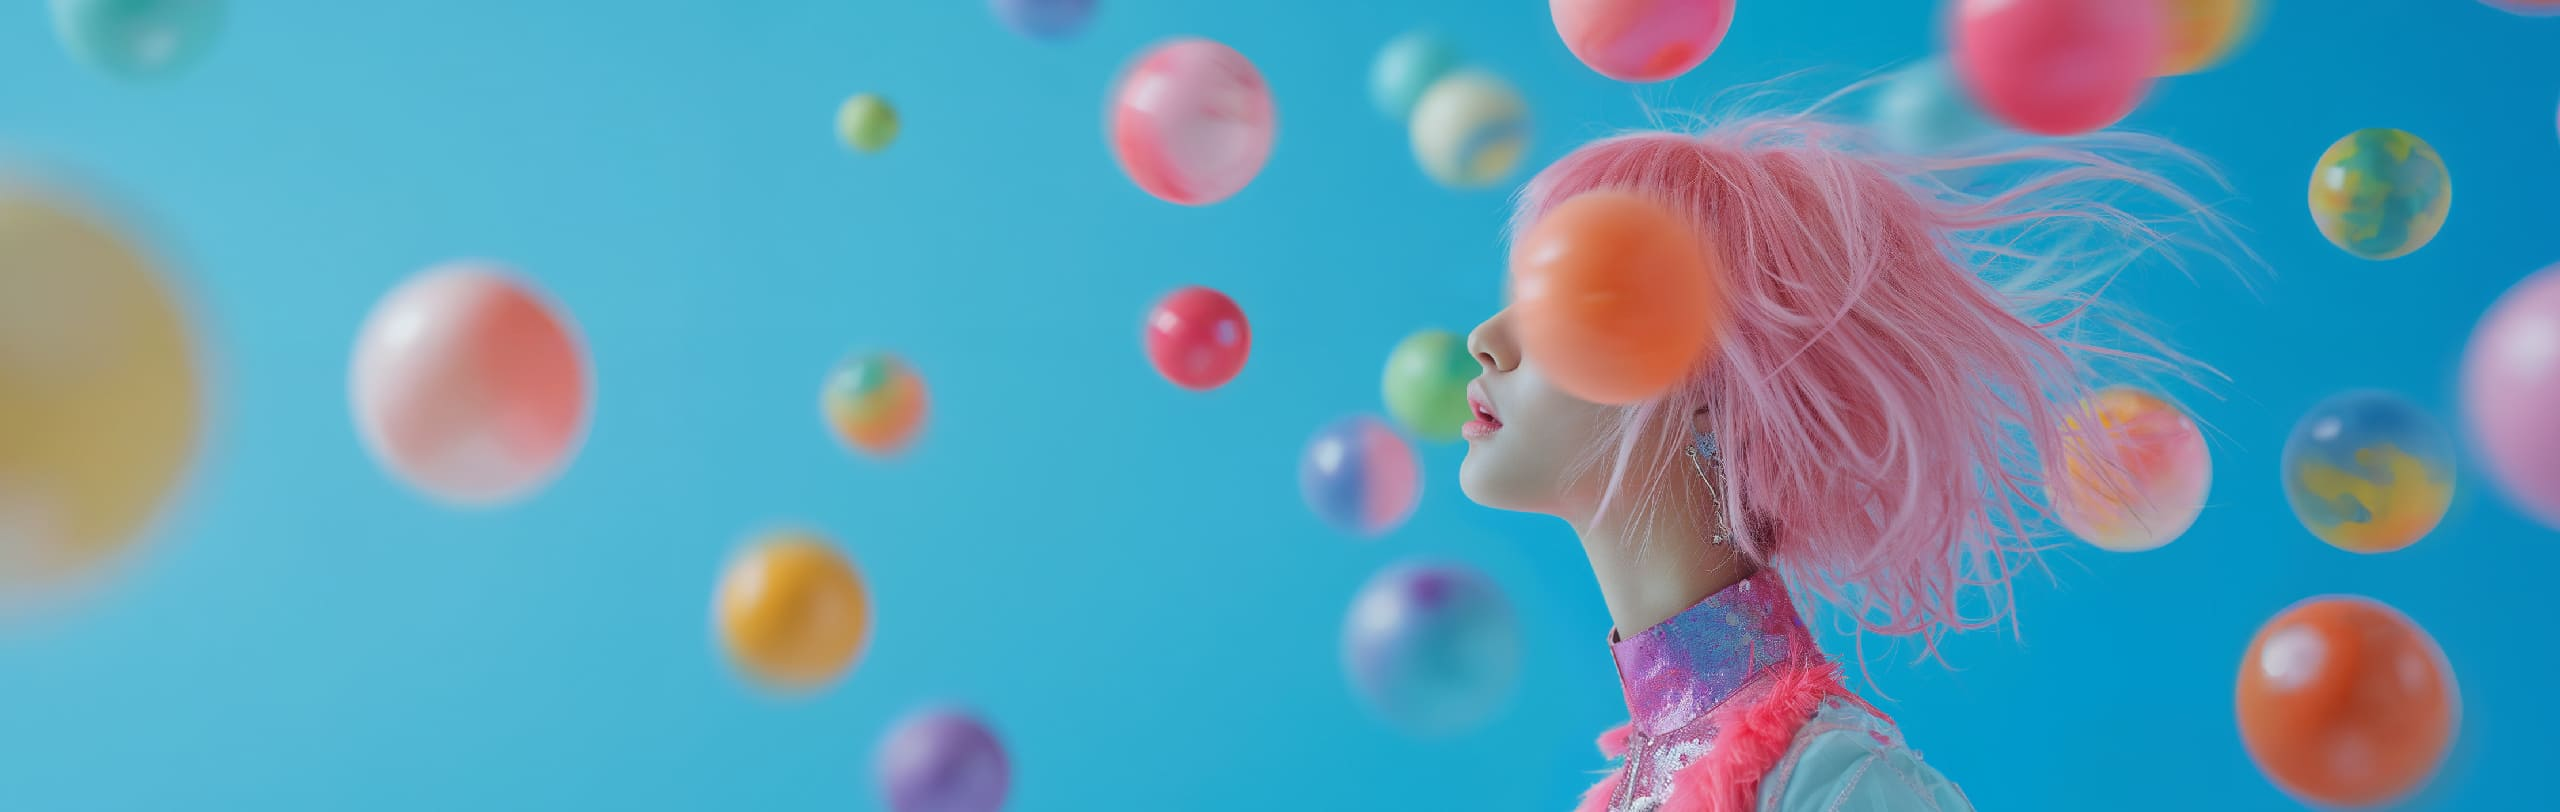
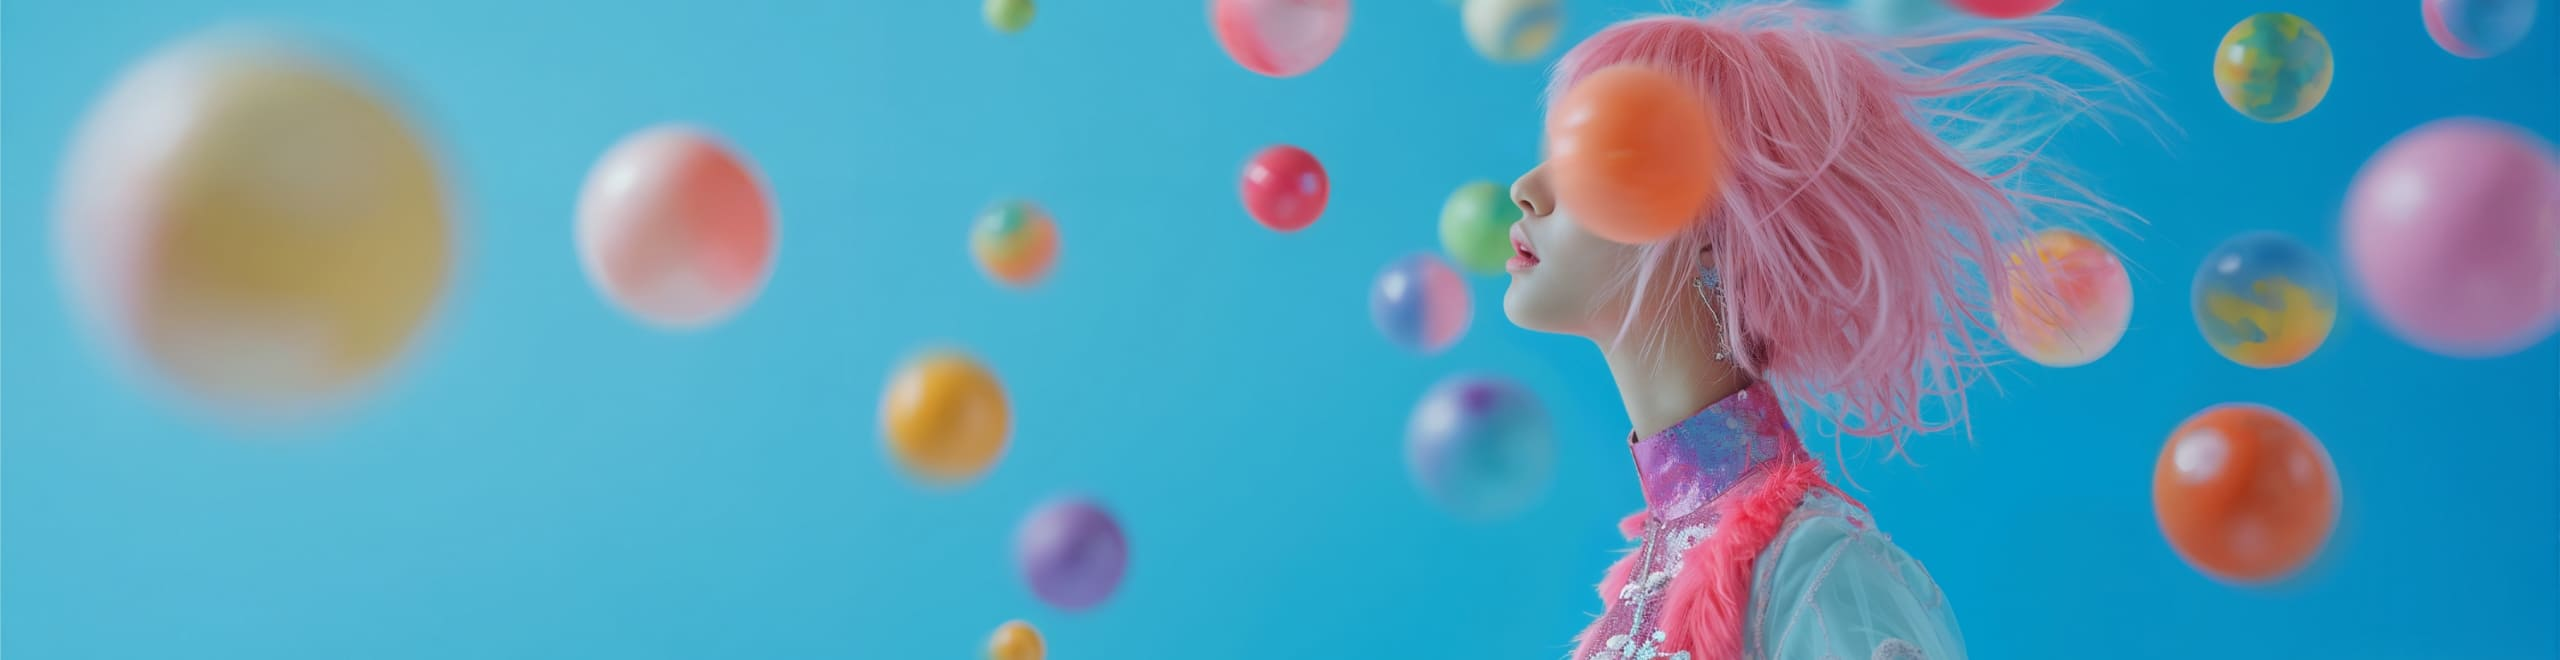
社外FB最終

diff --git a/scss/base/_base.scss b/scss/base/_base.scss
@@ -13,7 +13,7 @@ body {
 	font-weight: $base-font-weight;
 	position: relative;
 	-webkit-print-color-adjust: exact;
-	// overflow-x: hidden;
+	overflow-x: hidden;
 	// -ms-overflow-style: none;    /* IE, Edge 対応 */
 	// scrollbar-width: none;       /* Firefox 対応 */
   @include mq_sp {
@@ -21,8 +21,19 @@ body {
     line-height: $base-line-height-sp;
   }
 	&::-webkit-scrollbar {  /* Chrome, Safari 対応 */
-		display:none;
+		//display:none;
 	}
+  &::-webkit-scrollbar{
+    width: 10px;
+    height: auto;
+  }
+  &::-webkit-scrollbar-thumb{
+    border-radius: 100px;
+    background: #888;
+  }
+  &::-webkit-scrollbar-track{
+    background: rgba(225, 230, 230, 0.7);
+  }
 }
 
 //ローディング前後

diff --git a/scss/module/_pagettl.scss b/scss/module/_pagettl.scss
@@ -1,6 +1,6 @@
 .common-kv{
   position: relative;
-  height: 330px;
+  height: (330/1280) * 100%;
   z-index: 99;
   @include mq_sp{
     height: size_sp(392)
@@ -32,9 +32,9 @@
 .common-subKv {
   position: relative;
   height : 454px;
- @include mq_sp{
-   height : size_sp(977);
- }
+  @include mq_sp{
+    height : size_sp(977);
+  }
   &__bg{
     width: 100%;
     height: 100%;

diff --git a/scss/layout/_philosphy.scss b/scss/layout/_philosphy.scss
@@ -207,6 +207,12 @@
           @include fz_vw(34);
           line-height: (49/34);
         }
+        small{
+          @include font-size(14);
+          @include mq_sp{
+            @include fz_vw(24);
+          }
+        }
       }
       &-thumb{
         width: 100%;

diff --git a/footer.php b/footer.php
@@ -1,9 +1,9 @@
- <?php
+<?php
 //パンくず
   if(!is_page(array('sitemap','privacy-policy','media-policy')) && !is_archive() && !is_single() && !is_404()){
-  echo '<section class="pageSec"><span class="pageSec__bg"></span></section>';
- }
- ?>
+    echo '<section class="pageSec"><span class="pageSec__bg"></span></section>';
+  }
+?>
 </main>
 <!-- ////コンテンツ -->
 
@@ -32,7 +32,7 @@
           <span>専門学校教育</span>
           <ul>
             <li><a href="https://isc.iwasaki.ac.jp/" target="_blank">情報科学専門学校</a></li>
-            <li><a href="https://iscs.iwasaki.ac.jp/" target="_blank">横浜スポーツ＆医療ウェルネス専門学校<span>(旧校名 横浜医療情報専門学校)</span></a></li>
+            <li><a href="https://ysw.iwasaki.ac.jp/" target="_blank">横浜スポーツ＆医療ウェルネス専門学校<span>(旧校名 横浜医療情報専門学校)</span></a></li>
             <li><a href="https://yfc.iwasaki.ac.jp/" target="_blank">横浜ｆカレッジ</a></li>
             <li><a href="https://yda.iwasaki.ac.jp/" target="_blank">横浜デジタルアーツ専門学校</a></li>
             <li><a href="https://ycr.iwasaki.ac.jp/" target="_blank">横浜リハビリテーション専門学校</a></li>
@@ -79,7 +79,7 @@
       <li><a href="<?php echo home_url('/privacy-policy/');?>">サイトポリシー</a></li>
       <li><a href="<?php echo home_url('/media-policy/');?>">メディアポリシー</a></li>
     </ul>
-    <small class="common-footer__copyright">&copy; 2024 IWASAKI GAKUEN.</small>
+    <small class="common-footer__copyright">&copy; 2025 IWASAKI GAKUEN.</small>
   </div>
 </footer>
 <!-- ////フッター -->

diff --git a/header.php b/header.php
@@ -126,7 +126,7 @@
 					<ul class="common-header__menuList">
 						<li class="<?php if(is_page('about')){echo 'current';}?>"><a href="<?php echo home_url('/about/'); ?>">岩崎学園について</a></li>
 						<li class="<?php if(is_page('facilities')){echo 'current';}?>"><a href="<?php echo home_url('/facilities/'); ?>">教育事業</a></li>
-						<li class="<?php if(is_page('philosophy')){echo 'current';}?>"><a href="<?php echo home_url('/philosophy/'); ?>">産学・地域連携</a></li>
+						<li class="<?php if(is_page('philosophy')){echo 'current';}?>"><a href="<?php echo home_url('/philosophy/'); ?>">産官学・地域連携</a></li>
 						<li class="<?php if(is_post_type_archive('career') || is_singular('career')){echo 'current';}?>"><a href="<?php echo home_url('/career/'); ?>">卒業生の活躍</a></li>
 						<li class="<?php if(is_page('support')){echo 'current';}?>"><a href="<?php echo home_url('/support/'); ?>">学生支援</a></li>
 					</ul>

diff --git a/content/page/philosophy.php b/content/page/philosophy.php
@@ -2,7 +2,7 @@
 <main class="<?php echo $pageName;?>">
   <section class="<?php echo $pageName;?>__about">
     <div class="<?php echo $pageName;?>__aboutInner <?php echo $pageName;?>__inner">
-      <h2 class="<?php echo $pageName;?>__aboutHeading page-heading"><span>産学・地域連携について</span></h2>
+      <h2 class="<?php echo $pageName;?>__aboutHeading page-heading"><span>産官学・地域連携について</span></h2>
       <p class="<?php echo $pageName;?>__aboutIntro">岩崎学園は、社会との連携を通じて、魅力的で実践的な教育を実現し、学生が将来の社会で自信を持って活躍できるよう、全力でサポートします。学生の未来の可能性を最大限に引き出す準備を整えています！</p>
     </div>
   </section>
